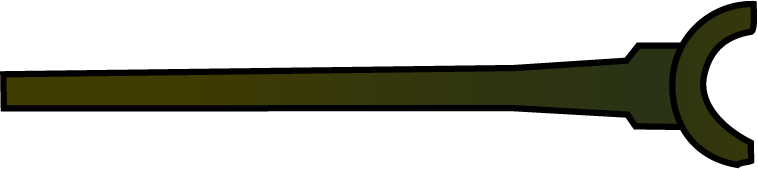
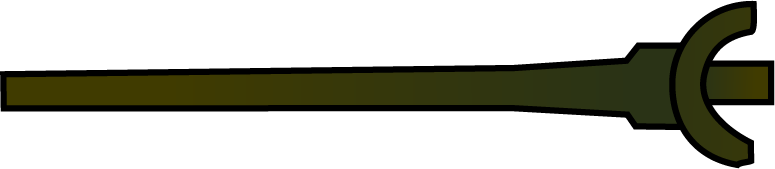
Nambah Asset untuk setiap tank -KV2 -Pershing -Sherman -Panther -T34

diff --git a/FP/resource.h b/FP/resource.h
@@ -9,12 +9,20 @@
 #define PRSHG_GUN						105
 #define TIGER_BODY						106
 #define TIGER_GUN						107
+#define KV2_BODY						108
+#define KV2_GUN							109
+#define SHRMN_BODY						110
+#define SHRMN_GUN						111
+#define T34_BODY						112
+#define T34_GUN							113
+#define PNTHR_BODY						114
+#define PNTHR_GUN						115
 
 // Next default values for new objects
 // 
 #ifdef APSTUDIO_INVOKED
 #ifndef APSTUDIO_READONLY_SYMBOLS
-#define _APS_NEXT_RESOURCE_VALUE        105
+#define _APS_NEXT_RESOURCE_VALUE        116
 #define _APS_NEXT_COMMAND_VALUE         40001
 #define _APS_NEXT_CONTROL_VALUE         1001
 #define _APS_NEXT_SYMED_VALUE           103
